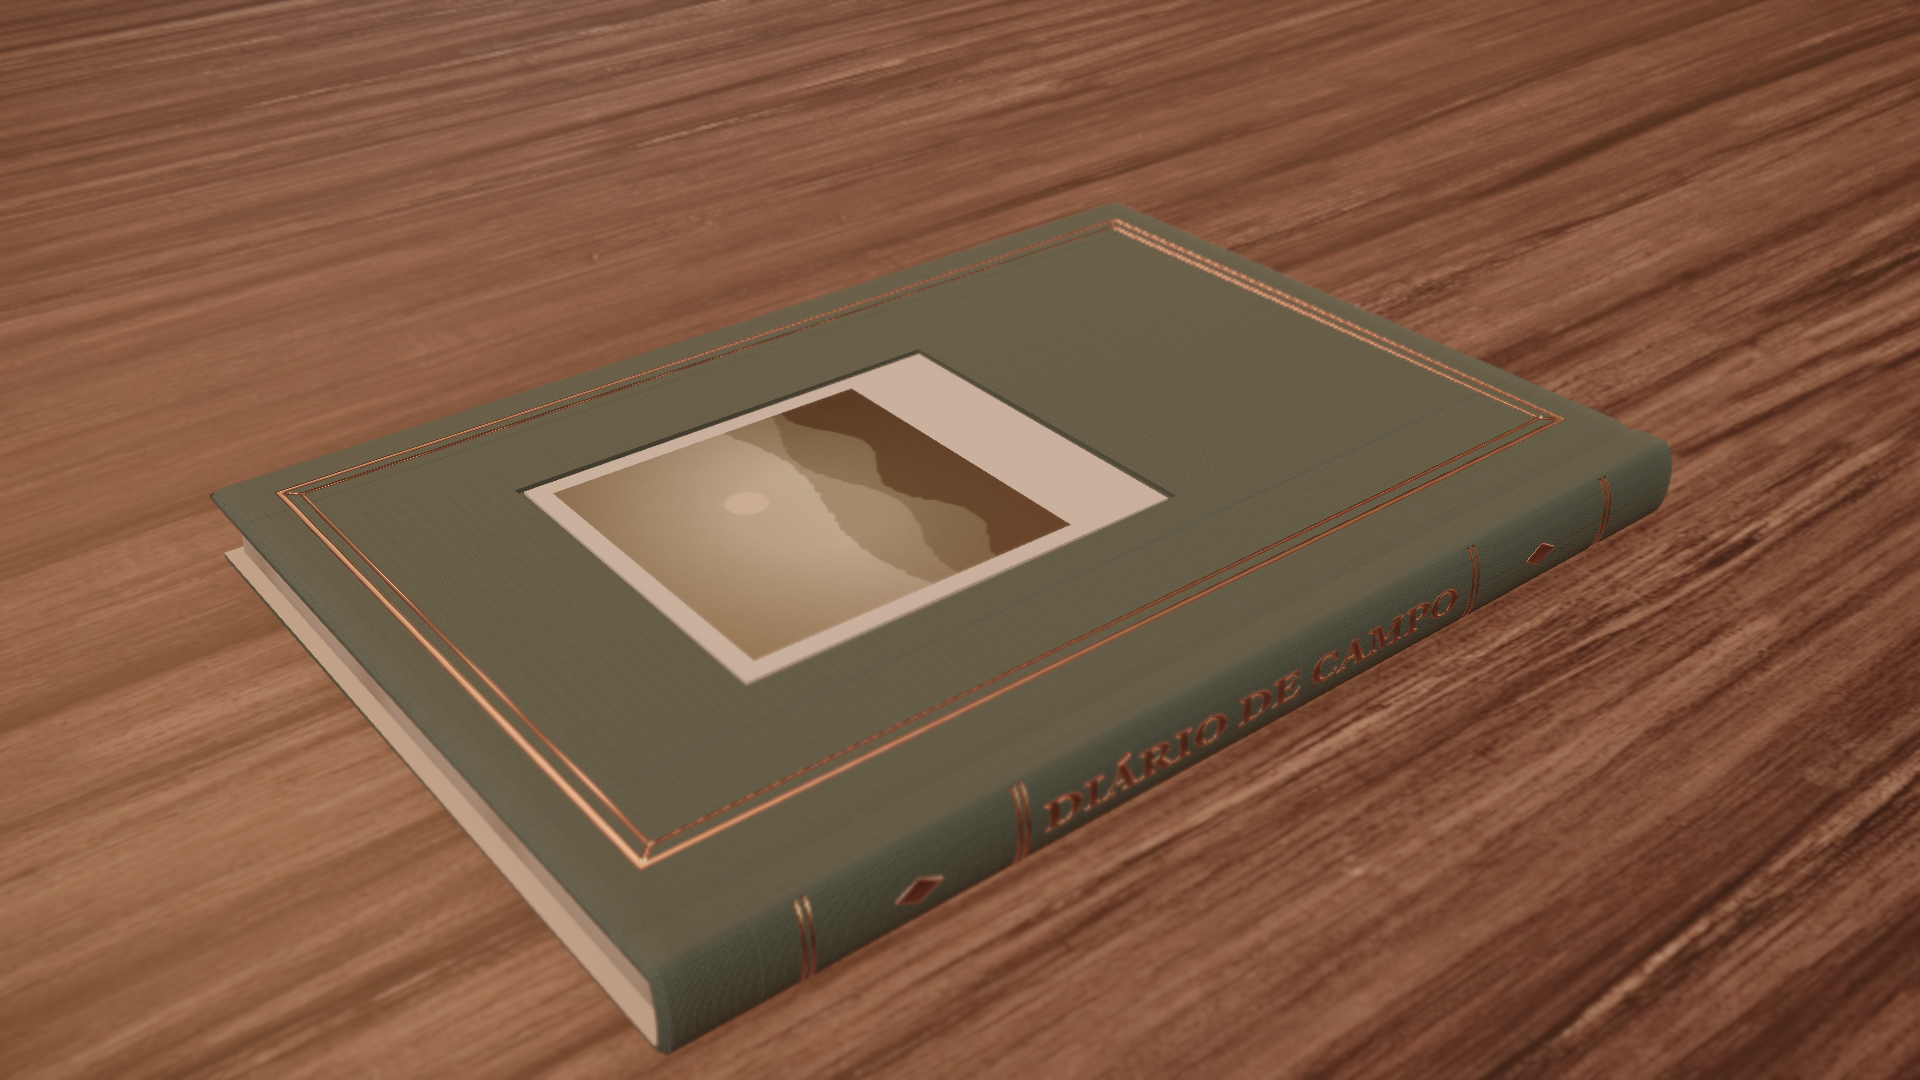
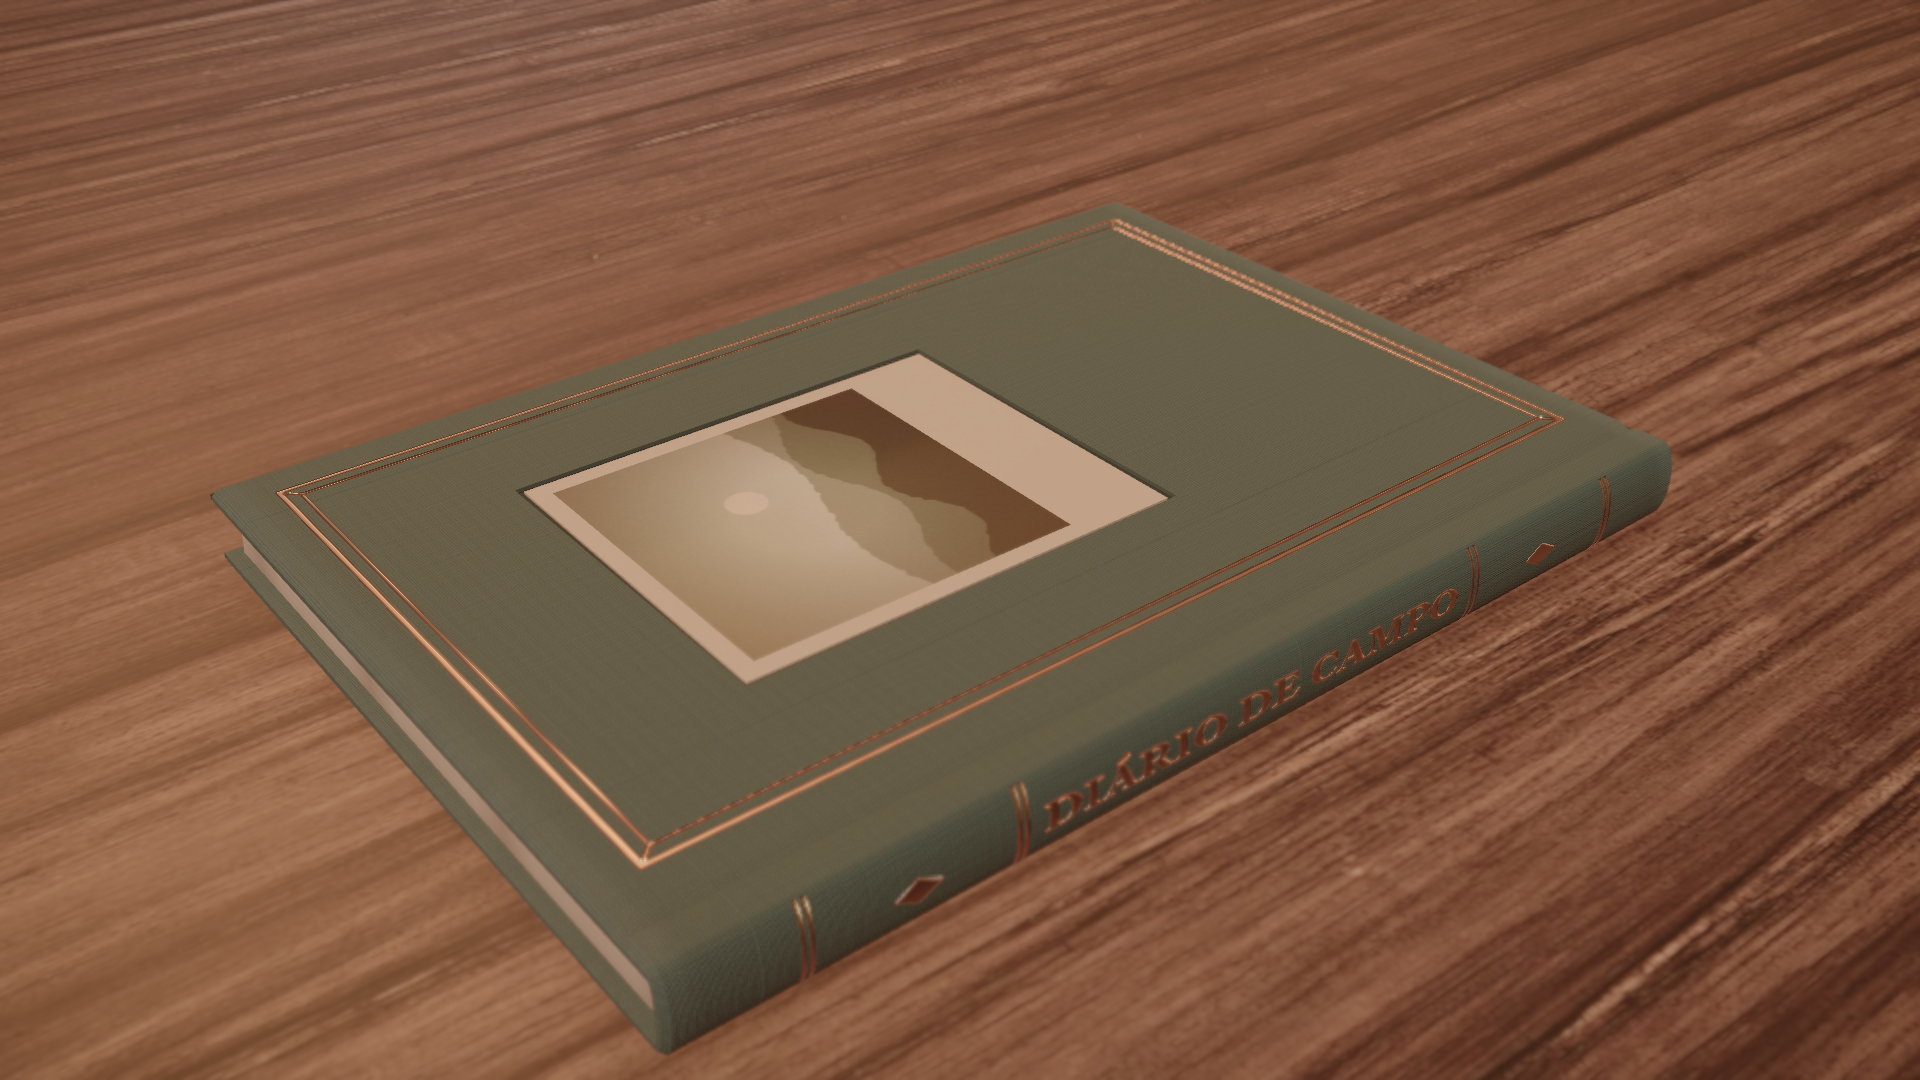
livro: polaroid com verniz e sombra, dourado, quinas gastas, dobra da capa nas seixas

diff --git a/src/book/Book.tsx b/src/book/Book.tsx
@@ -3,6 +3,7 @@ import { useEffect, useMemo, useState } from 'react'
 import { Vector2, type Texture } from 'three'
 import {
   clothWeaveHeight,
+  contactShadowTexture,
   frontFoilMask,
   maskTexture,
   normalFromMask,
@@ -20,9 +21,11 @@ import {
   HINGE_OFFSET,
   pageBlockGeometry,
   polaroidGeometry,
+  polaroidLayout,
   spineFoilGeometry,
 } from './geometry'
 import {
+  contactShadowMaterial,
   coverMaterial,
   endpaperMaterial,
   foilMaterial,
@@ -85,6 +88,7 @@ export function Book({ book, position = [0, 0, 0], rotation = [0, 0, 0] }: BookP
       spineFoil: spineFoilGeometry(d),
       frontFoil: frontFoilGeometry(d),
       polaroid: polaroidGeometry(d),
+      polaroidSize: [polaroidLayout(d).cardW, polaroidLayout(d).cardH] as [number, number],
     }),
     [d, hasPolaroid],
   )
@@ -115,7 +119,8 @@ export function Book({ book, position = [0, 0, 0], rotation = [0, 0, 0] }: BookP
       pageSide: pageSideMaterial(paper),
       spineFoil: foilMaterial(maskTexture(spineMask), normalFromMask(spineMask)),
       frontFoil: foilMaterial(maskTexture(frontMask), normalFromMask(frontMask)),
-      card: polaroidCardMaterial(),
+      card: polaroidCardMaterial(paper),
+      shadow: contactShadowMaterial(contactShadowTexture()),
     }
   }, [geo.cover, d, book.title, book.coverMaterial, book.color, lum, normal, arm])
 
@@ -130,7 +135,12 @@ export function Book({ book, position = [0, 0, 0], rotation = [0, 0, 0] }: BookP
 
   useEffect(
     () => () => {
-      Object.values(geo).forEach((g) => ('dispose' in g ? g.dispose() : (g.card.dispose(), g.photo.dispose())))
+      geo.cover.dispose()
+      geo.pages.dispose()
+      geo.spineFoil.dispose()
+      geo.frontFoil.dispose()
+      geo.polaroid.card.dispose()
+      geo.polaroid.photo.dispose()
       Object.values(mats).forEach((m) => m.dispose())
     },
     [geo, mats],
@@ -141,12 +151,16 @@ export function Book({ book, position = [0, 0, 0], rotation = [0, 0, 0] }: BookP
       {/* geometry.ts builds Z from the spine to the fore-edge; mirrored here so that, facing the front cover,
           the spine is on the left (western binding) */}
       <group scale={[1, 1, -1]}>
-      {/* cover: groups 0 outer, 1 board edges, 2 endpapers */}
-      <mesh name="cover" geometry={geo.cover} material={[mats.cover, mats.cover, mats.endpaper]} castShadow receiveShadow />
+      {/* cover: groups 0 outer, 1 board edges, 2 inner face. The inner face shows the cover's turn-ins at the
+          squares; the endpaper (mats.endpaper) is only visible once the book opens (Fase 4). */}
+      <mesh name="cover" geometry={geo.cover} material={[mats.cover, mats.cover, mats.cover]} castShadow receiveShadow />
       <mesh name="pageBlock" geometry={geo.pages} material={[mats.pageEdge, mats.pageSide]} castShadow receiveShadow />
       <mesh name="spineFoil" geometry={geo.spineFoil} material={mats.spineFoil} />
       <mesh name="frontFoil" geometry={geo.frontFoil} material={mats.frontFoil} />
       <group name="polaroid" position={geo.polaroid.position} rotation={[tilt, 0, 0]}>
+        <mesh rotation={[0, Math.PI / 2, 0]} position={[0.00003, 0, 0]} material={mats.shadow} renderOrder={1}>
+          <planeGeometry args={[geo.polaroidSize[0] * 1.12, geo.polaroidSize[1] * 1.1]} />
+        </mesh>
         <mesh geometry={geo.polaroid.card} material={mats.card} castShadow receiveShadow />
         {photoMat && <mesh geometry={geo.polaroid.photo} material={photoMat} />}
       </group>

diff --git a/src/book/materials.ts b/src/book/materials.ts
@@ -1,5 +1,6 @@
 import {
   Color,
+  MeshBasicMaterial,
   DoubleSide,
   MeshPhysicalMaterial,
   MeshStandardMaterial,
@@ -106,7 +107,8 @@ export function pageSideMaterial(paper: Texture) {
 /** Gold tooling: metal where the mask is set, slightly debossed via the normal map from the mask. */
 export function foilMaterial(mask: Texture, normal: Texture) {
   return new MeshStandardMaterial({
-    color: new Color(GOLD).lerp(new Color('#B8A16A'), 0.3),
+    // less red than #C9A35A: under the warm key light and AgX the pure palette value reads as copper
+    color: new Color(GOLD).lerp(new Color('#B9A867'), 0.55),
     metalness: 1,
     roughness: 0.34,
     alphaMap: mask,
@@ -118,10 +120,26 @@ export function foilMaterial(mask: Texture, normal: Texture) {
   })
 }
 
-export function polaroidCardMaterial() {
-  return new MeshStandardMaterial({ color: new Color('#EEE7D6'), roughness: 0.78, metalness: 0, side: DoubleSide })
+export function polaroidCardMaterial(paper?: Texture) {
+  // aged instant-film card: cream, never pure white, with the paper fibre texture
+  return new MeshStandardMaterial({ color: new Color('#E4D9C2'), map: paper ?? null, roughness: 0.8, metalness: 0, side: DoubleSide })
+}
+
+/** Soft contact shadow under the polaroid, inside the recess (multiplied over the cover). */
+export function contactShadowMaterial(shadow: Texture) {
+  return new MeshBasicMaterial({ color: new Color('#000000'), alphaMap: shadow, transparent: true, opacity: 0.55, depthWrite: false, polygonOffset: true, polygonOffsetFactor: -1 })
 }
 
 export function polaroidPhotoMaterial(photo: Texture) {
-  return new MeshPhysicalMaterial({ map: photo, roughness: 0.22, clearcoat: 0.6, clearcoatRoughness: 0.2, polygonOffset: true, polygonOffsetFactor: -1, side: DoubleSide })
+  // glossy photographic surface: sharp reflections of the room on top of a slightly matte emulsion
+  return new MeshPhysicalMaterial({
+    map: photo,
+    roughness: 0.3,
+    clearcoat: 1,
+    clearcoatRoughness: 0.08,
+    envMapIntensity: 1.3,
+    polygonOffset: true,
+    polygonOffsetFactor: -2,
+    side: DoubleSide,
+  })
 }

diff --git a/src/book/geometry.ts b/src/book/geometry.ts
@@ -329,13 +329,27 @@ export function coverGeometry(d: BookDimensions, opts: CoverGeometryOptions = {}
     extrudeStrip(b, inner, innerN, 0, H)
   })
   group(b, COVER_GROUPS.edges, () => {
-    // board edges at the fore-edge (end caps of the C profile) and top/bottom faces
-    const closed: ProfilePoint[] = [
-      ...outer.map((q, i) => ({ p: q.p.clone().sub(outerN[i].clone().multiplyScalar(e)), panel: q.panel })),
-      ...inner,
-    ]
-    cap(b, closed, 0, false, 1)
-    cap(b, closed, H, true, 1)
+    // head and tail of the boards: two rectangles (boards) + a ring of quads (rounded spine).
+    // (a single C-shaped polygon triangulates badly and left the endpaper visible through the edge)
+    const ring0 = spineArc(d, -e)
+    const ring1 = spineArc(d, -BOARD)
+    for (const [y, up] of [[0, false], [H, true]] as const) {
+      const ny = up ? 1 : -1
+      const quad = (pts: [number, number][]) => {
+        const ids = pts.map(([x, z]) => vertex(b, x, y, z, 0, ny, 0, z, x, 1))
+        b.idx.push(ids[0], ids[1], ids[2], ids[0], ids[2], ids[3])
+      }
+      quad([[-T + e, 0], [-T + BOARD, 0], [-T + BOARD, zEnd - e], [-T + e, zEnd - e]])
+      quad([[T - BOARD, 0], [T - e, 0], [T - e, zEnd - e], [T - BOARD, zEnd - e]])
+      for (let i = 0; i < ring0.length - 1; i++) {
+        quad([
+          [ring0[i].x, ring0[i].y],
+          [ring0[i + 1].x, ring0[i + 1].y],
+          [ring1[i + 1].x, ring1[i + 1].y],
+          [ring1[i].x, ring1[i].y],
+        ])
+      }
+    }
     // fore-edge ends of the boards
     for (const [o, ii, sign] of [[outer[outer.length - 1], inner[0], 1], [outer[0], inner[inner.length - 1], -1]] as const) {
       const v0 = vertex(b, o.p.x, 0, o.p.y, 0, 0, 1, 0, 0, o.panel)

diff --git a/src/book/canvasTextures.ts b/src/book/canvasTextures.ts
@@ -152,6 +152,17 @@ export function clothWeaveHeight(tileM: number, seed = 5): HTMLCanvasElement {
   return c
 }
 
+/** Soft rectangular shadow (alpha): darkest under the card, fading 4% beyond its edges. */
+export function contactShadowTexture(): Texture {
+  const N = 256
+  const { c, ctx } = canvas(N, N)
+  ctx.clearRect(0, 0, N, N)
+  ctx.filter = 'blur(10px)'
+  ctx.fillStyle = '#fff'
+  ctx.fillRect(N * 0.1, N * 0.1, N * 0.8, N * 0.8)
+  return texture(c, false)
+}
+
 export function maskTexture(mask: HTMLCanvasElement): Texture {
   return texture(mask, false)
 }
@@ -219,11 +230,19 @@ export function wearTexture(profileLengthM: number, heightM: number, spineFromM:
     ctx.fillStyle = `rgba(255,255,255,${a})`
     ctx.fillRect(x, y, bw, bh)
   }
-  const edge = 0.004 * pxPerM
-  band(0, 0, w, edge, 0.55)
-  band(0, h - edge, w, edge, 0.55)
-  band(0, 0, edge * 0.8, h, 0.45)
-  band(w - edge * 0.8, 0, edge * 0.8, h, 0.45)
+  const edge = 0.005 * pxPerM
+  band(0, 0, w, edge, 0.75)
+  band(0, h - edge, w, edge, 0.75)
+  band(0, 0, edge * 0.8, h, 0.6)
+  band(w - edge * 0.8, 0, edge * 0.8, h, 0.6)
+  // rubbed corners (fore-edge top and bottom of both boards): soft blobs
+  for (const [x, y] of [[0, 0], [0, h], [w, 0], [w, h]]) {
+    const g = ctx.createRadialGradient(x, y, 0, x, y, 0.018 * pxPerM)
+    g.addColorStop(0, 'rgba(255,255,255,0.95)')
+    g.addColorStop(1, 'rgba(255,255,255,0)')
+    ctx.fillStyle = g
+    ctx.fillRect(x - 0.02 * pxPerM, y - 0.02 * pxPerM, 0.04 * pxPerM, 0.04 * pxPerM)
+  }
   // spine rubbing
   const s0 = spineFromM * pxPerM
   const s1 = spineToM * pxPerM

diff --git a/docs/look-dev/iteracoes.md b/docs/look-dev/iteracoes.md
@@ -52,3 +52,7 @@ Cada entrada: data/hora, o que mudou, notas por critério (art-reviewer), diverg
 - Divergências restantes (viraram próximos passos no relatório): dominante vermelho-laranja; vestíbulo escuro e profundo no N0 16:9; fim de tarde pouco legível (céu cinza, feixes fracos no N0); faixa fria no fundo do piso; props/têxteis genéricos (cúpulas do lustre, abraçadeiras baixas, quadro e lampião fora do quadro do N0).
 - Defeitos técnicos corrigidos depois desta revisão (re-bake final): costura de luz nas quinas do vestíbulo; moiré da trama do livro de tecido.
 - Limite de iterações: 6 drafts + final (runbook: até 8). Parei aqui porque os itens restantes de maior impacto (temperatura geral da luz, elevação do sol, posição do N0) contradizem decisões anteriores do próprio revisor ou da direção de arte e precisam da sua escolha — ver "Decisões que precisam de você".
+
+### S8 + L4 — 2026-10-15 (continuação pedida pelo usuário)
+- Sala: recomendações 1–2 do relatório aplicadas (céu do bake mais frio/forte, sol 22°, força 14), pedra #A8A08E (sat 0,4), madeiras sat 0,32, abraçadeiras a 1,4 m, velas do lustre creme, feixes mais fortes, latão dos apoios com menos reflexo do céu.
+- Livro: polaroid com cartão creme texturizado, foto com verniz brilhante (clearcoat) e sombra de contato no rebaixo; dourado menos acobreado; desgaste mais forte nas quinas; face interna das placas com o material da capa (a "dobra" do couro) — o degrau creme apontado pelo revisor era a guarda de papel aparecendo na seixa.
